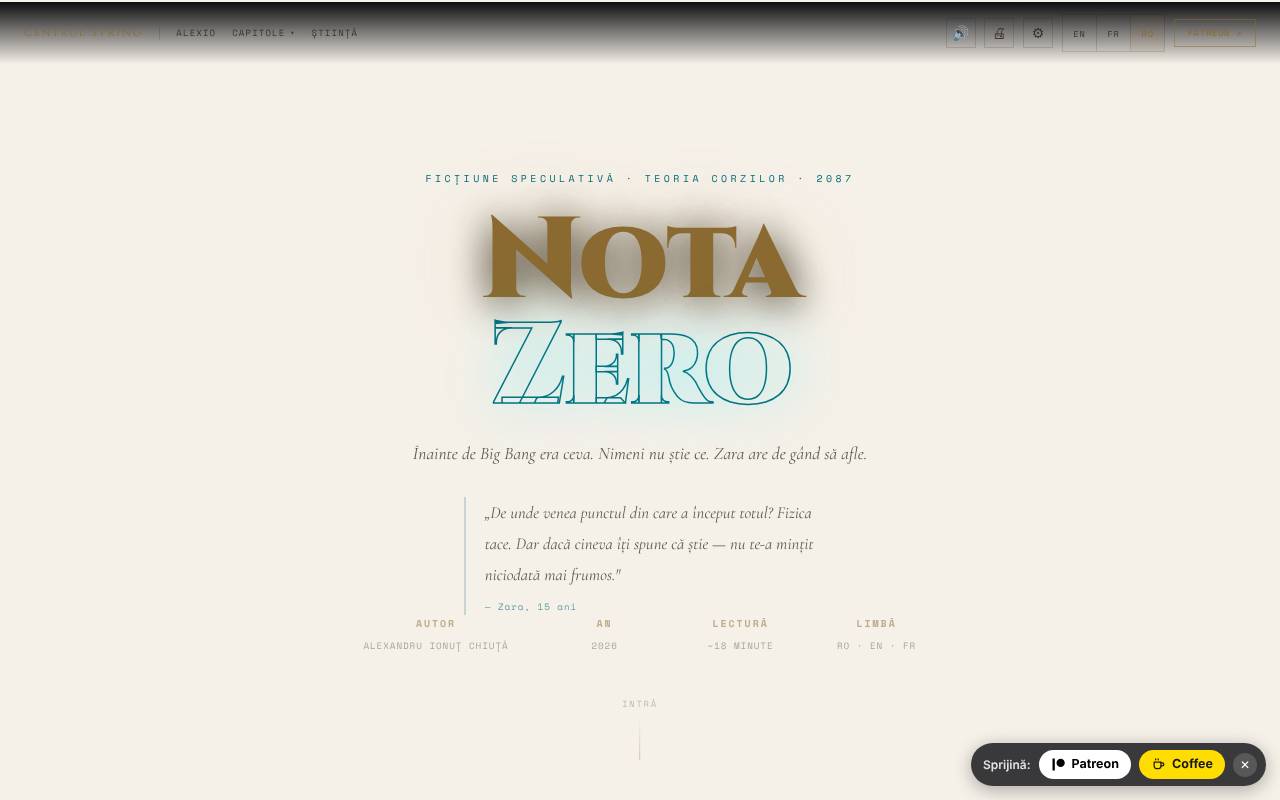
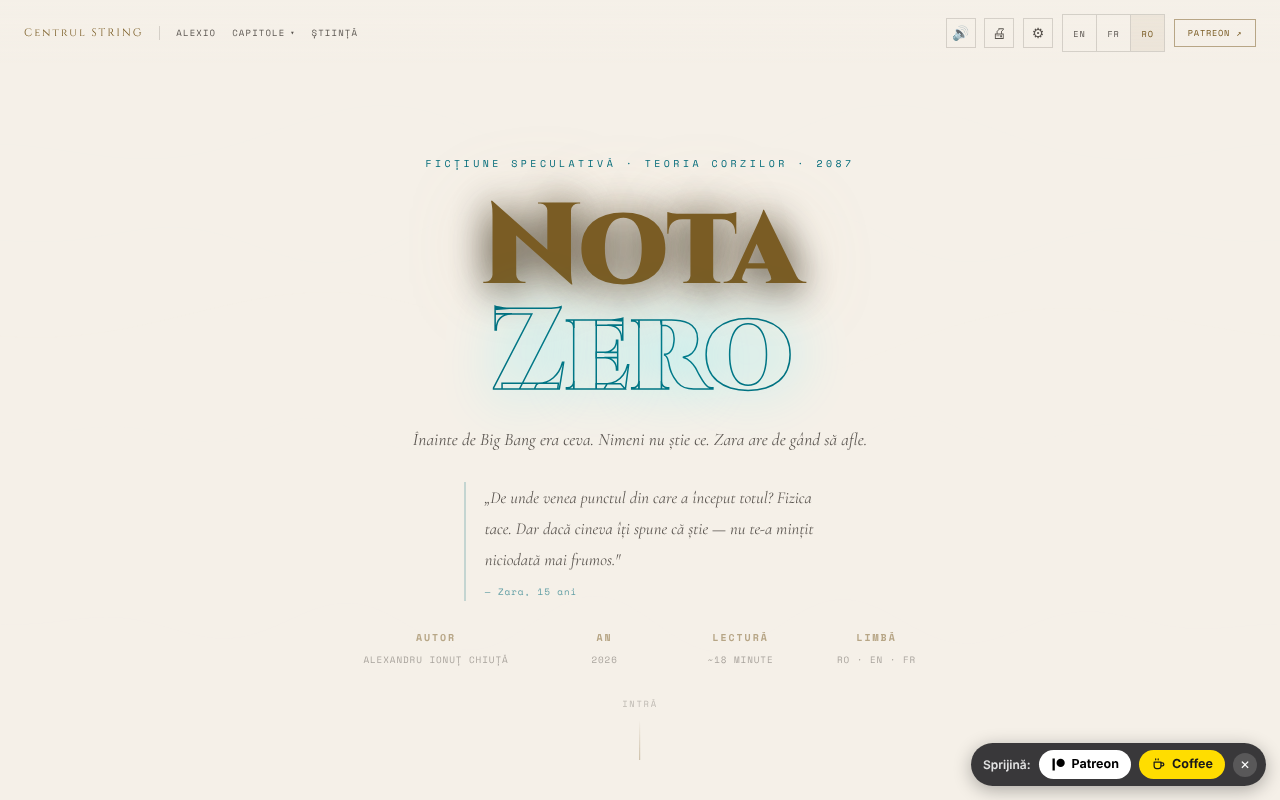
Runda 7 (11 octombrie 2026): defecte noi reparate, hash CSP, îmbunătățiri
Claude-Session: https://claude.ai/code/session_01D2sCEb3hy3nutYexhUfQFs

diff --git a/index.html b/index.html
@@ -60,7 +60,7 @@
 </style>
 
 
-  <meta http-equiv="Content-Security-Policy" content="default-src 'self'; img-src 'self' data: blob:; style-src 'self' 'unsafe-inline'; font-src 'self' data:; media-src 'self' blob: data:; object-src 'none'; base-uri 'self'; form-action 'self'; worker-src 'self' blob:; script-src 'self' blob: 'sha256-Sd9lH6MkccglOV7sViI2XgnP4zKJfyX/yFq0E4GdwR0='; connect-src 'self'">
+  <meta http-equiv="Content-Security-Policy" content="default-src 'self'; img-src 'self' data: blob:; style-src 'self' 'unsafe-inline'; font-src 'self' data:; media-src 'self' blob: data:; object-src 'none'; base-uri 'self'; form-action 'self'; worker-src 'self' blob:; script-src 'self' blob: 'sha256-ZcMxaGrGBUhEd8nSFu/p76vGzK008D7ZIhf/DRLzXvI='; connect-src 'self'">
 <meta name="viewport" content="width=device-width, initial-scale=1.0, viewport-fit=cover">
 <title>Nota Zero · Alexandru Ionuț Chiuță</title>
 <meta id="meta-desc" name="description" content="O poveste SF despre ce s-a întâmplat înainte de tot — teoria corzilor, membrane cosmice și răspunsul la întrebarea pe care știința o evită.">
@@ -356,7 +356,7 @@ body{
 .hero-quote{
   font-style:italic;font-size:1rem;color:var(--cream-dim);
   max-width:min(48ch, 100%);
-  margin:0 auto;
+  margin:0 auto 1.8rem;
   border-left:2px solid var(--cyan-dim);padding-left:1.2rem;
   text-align:left;animation:fadeUp .9s ease .6s both;
 }
@@ -2453,10 +2453,12 @@ window.addEventListener('scroll', () => {
     requestAnimationFrame(() => {
       const sy = window.scrollY;
       const total = Math.max(document.body.scrollHeight, document.documentElement.scrollHeight) - window.innerHeight;
-      const pct = Math.round(sy / total * 100);
+      const pct = total > 0 ? Math.round(sy / total * 100) : 0;
       const pb = document.getElementById('progress-bar');
       pb.style.width = pct + '%';
       pb.setAttribute('aria-valuenow', pct);
+      { const left = Math.max(0, Math.ceil(18 * (1 - pct / 100))); // lectură ≈ 18 min (cf. pagina)
+        pb.setAttribute('aria-valuetext', pct + '% · ' + (currentLang === 'en' ? '~' + left + ' min left' : currentLang === 'fr' ? '~' + left + ' min restantes' : '~' + left + ' min rămase')); }
       document.getElementById('top-nav').classList.toggle('scrolled', sy > 60);
       scrollTopBtn.classList.toggle('visible', sy > 400);
       // Close dropdowns when scrolling on mobile

diff --git a/README.md b/README.md
@@ -59,6 +59,7 @@ Audit: 2026-10-10 (actualizat 2026-10-11) — fără `fetch`/XHR/CDN; singura ie
 
 ## Istoric / Changelog
 
+- **11 octombrie 2026 (rev. 3):** atribuirea citatului din antet nu mai atinge rândul AUTOR/AN pe desktop (margine sub citat); bara de progres expune și timpul rămas estimat (`aria-valuetext`, ~18 min total, RO/EN/FR) și nu mai produce NaN pe pagini fără derulare. CSP: hash recalculat.
 - **11 octombrie 2026 (rev. 2):** cele 82 de handlere `onclick`/`onchange` inline au fost înlocuite cu un dispatcher delegat (`data-onclick`/`data-onchange`, argumente literale, listă albă de funcții); CSP are acum `script-src` cu hash și fără `'unsafe-inline'`. Mărimea textului (A−/A+) se aplica doar parțial în paragrafele capitolelor la ≥1100 px și pe mobil; acum scalează peste tot. Activarea unei opțiuni (ex. dislexie) nu mai schimbă tema din luminoasă (a sistemului) în întunecată. Nou: „Reia lectura”.
 - **11 octombrie 2026:** modul sepia dădea un fundal închis (rgb(26,20,16)); acum este o temă caldă deschisă (fundal #f4e8d0, text brun #3b2a14). Bara de progres și butoanele de sprijin sunt acum în repere ARIA (`complementary`), deci axe-core raportează 0 violări (regula `region`) la 1280 și 360 px. Neschimbat: 82 de handlere `onclick` inline (CSP păstrează `'unsafe-inline'`). Secțiunea „Ce rămâne necunoscut · Mai 2026” păstrează data ei; nu am găsit o confirmare experimentală nouă a teoriei corzilor, gravitonului sau dimensiunilor extra la această dată.
 
